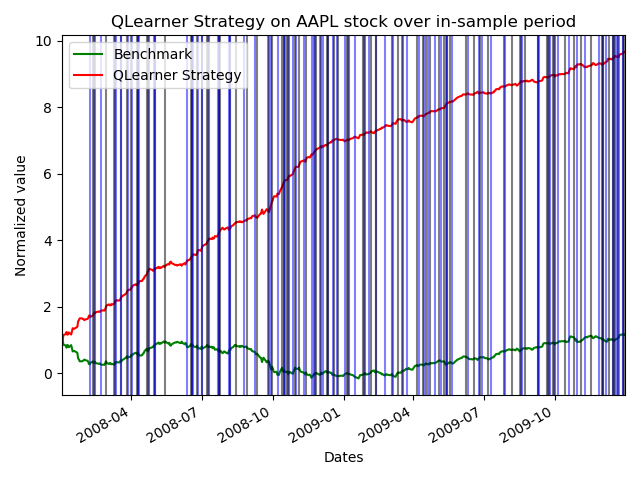
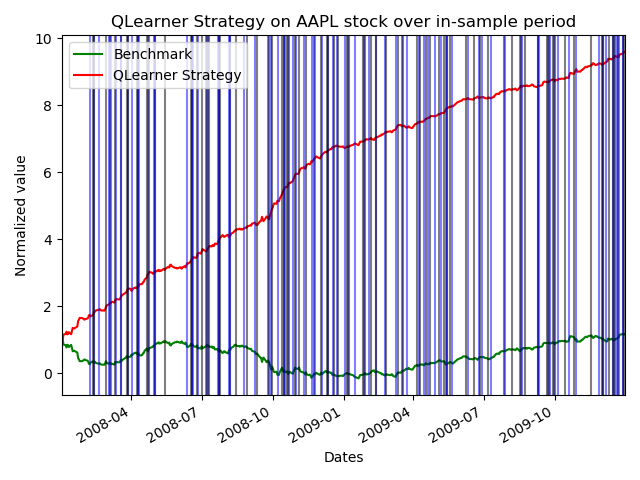
decreased decay to 0.75

diff --git a/experiment1.py b/experiment1.py
@@ -20,6 +20,9 @@ def run_experiment():
     impact = 0.005
     sd_in = dt.datetime(2008, 1, 1)
     ed_in = dt.datetime(2009, 12, 31)
+    sd_out = dt.datetime(2010, 1, 1)
+    ed_out = dt.datetime(2011, 12, 31)
+    
     period = pd.date_range(sd_in, ed_in)
     trading_days = get_data(["SPY"], dates=period).index
 
@@ -36,7 +39,7 @@ def run_experiment():
     portvals_manual = compute_portvals(df_trades_manual, start_val=sv, commission=commission, impact=impact)
     portvals_manual /= portvals_manual.iloc[0, :]
 
-    # QLearning Strategy
+    # QLearning Strategy in sample
     learner = sl.StrategyLearner(verbose=False, seed=True, impact=impact, commission=commission)
     learner.addEvidence(symbol=symbol, sd=sd_in, ed=ed_in, sv=sv)
     df_trades = learner.testPolicy(symbol=symbol, sd=sd_in, ed=ed_in, sv=sv)
@@ -54,6 +57,42 @@ def run_experiment():
     plt.grid()
     plt.tight_layout()
     plt.savefig("experiment1_{}_in_sample.png".format(symbol))
+    
+    #out-of-sample
+    periodOut = pd.date_range(sd_out, ed_out)
+    trading_daysOut = get_data(["SPY"], dates=periodOut).index
+
+    # Benchmark
+    benchmark_tradeOut = pd.DataFrame([1000] + [0] * (len(trading_daysOut) - 1), columns=[symbol], index=trading_daysOut)
+    benchmarkOut = compute_portvals(benchmark_tradeOut, start_val=sv, commission=commission, impact=impact)
+    benchmarkOut /= benchmark.iloc[0, :]
+
+    # Manual Strategy
+    ms = ManualStrategy()
+    df_trades_manualOut = ms.testPolicy(symbol=symbol, sd=sd_out, ed=ed_out, sv=sv,
+                                       boll_bandr_up=0.9, boll_bandr_low=-0.9,
+                                       simple_moving_averager_up=1.01, simple_moving_averager_low=0.99)
+    portvals_manualOut = compute_portvals(df_trades_manualOut, start_val=sv, commission=commission, impact=impact)
+    portvals_manualOut /= portvals_manual.iloc[0, :]
+
+    # QLearning Strategy out of sample
+    learner = sl.StrategyLearner(verbose=False, seed=True, impact=impact, commission=commission)
+    learner.addEvidence(symbol=symbol, sd=sd_in, ed=ed_in, sv=sv)
+    df_tradesOut = learner.testPolicy(symbol=symbol, sd=sd_out, ed=ed_out, sv=sv)
+    portvals_qlearningOut = compute_portvals(df_tradesOut, start_val=sv, commission=commission, impact=impact)
+    portvals_qlearningOut /= portvals_qlearning.iloc[0, :]
+
+    fig, ax = plt.subplots()
+    benchmarkOut.plot(ax=ax, color="g")
+    portvals_manualOut.plot(ax=ax, color="r")
+    portvals_qlearningOut.plot(ax=ax, color="b")
+    plt.legend(["Benchmark", "Manual Strategy", "QLearner Strategy"])
+    plt.title("Strategy comparison on {} stock over Out-of-sample period".format(symbol))
+    plt.xlabel("Dates")
+    plt.ylabel("Normalized value")
+    plt.grid()
+    plt.tight_layout()
+    plt.savefig("experiment1_{}_out_sample.png".format(symbol))
 
 
 if __name__ == "__main__":

diff --git a/StrategyLearner.py b/StrategyLearner.py
@@ -146,9 +146,10 @@ class StrategyLearner(object):
             alpha=0.2,
             #alpha=0.2,
             
+            #gamma=0.9,
             gamma=0.9,
             rar=0.5,
-            radr=0.99,
+            radr=0.75,
             dyna=0,
             verbose=self.verbose,
             seed=self.seed
